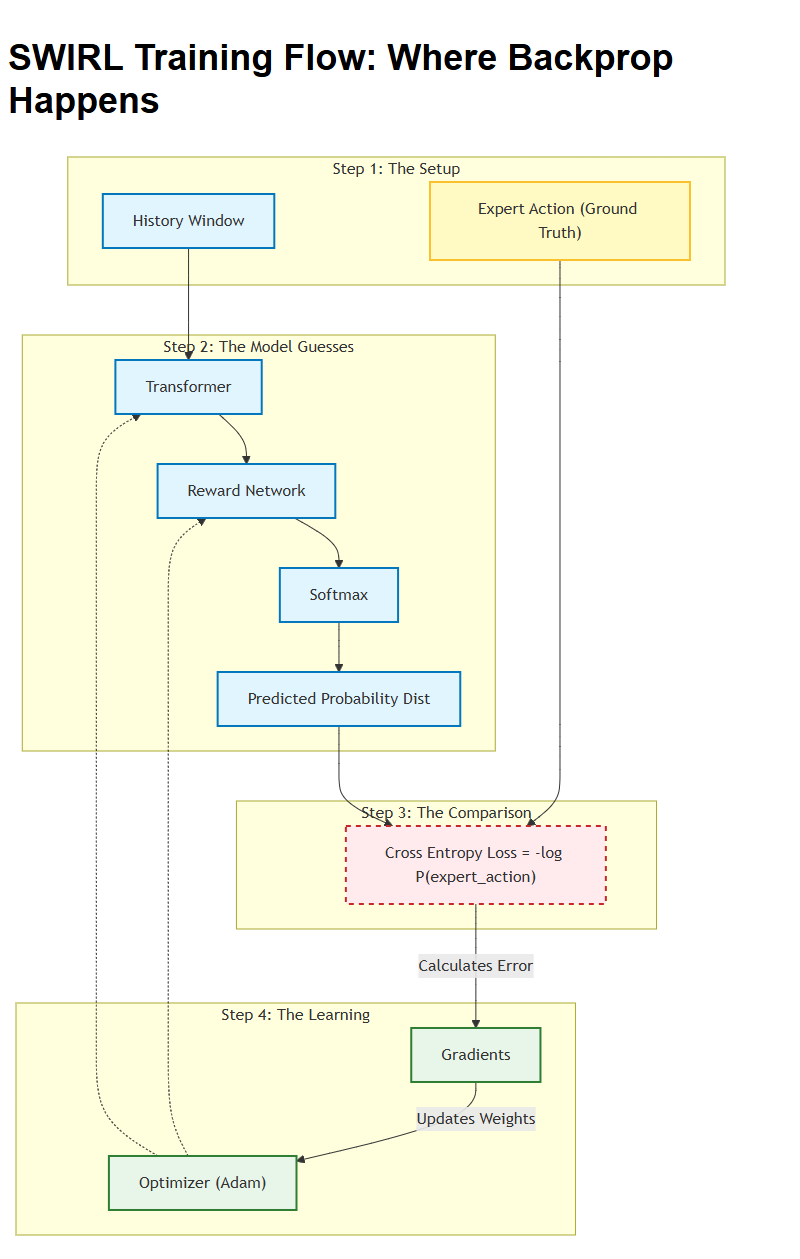
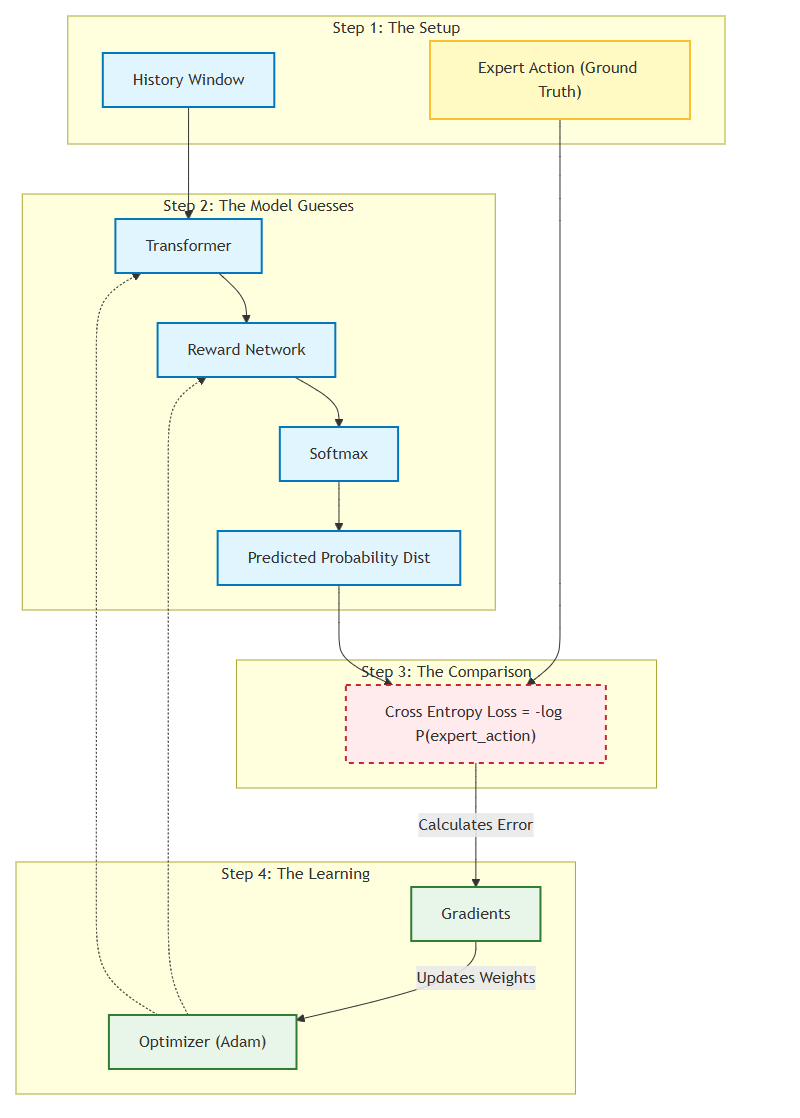
update diagrams

diff --git a/diagrams/diagram.md b/diagrams/diagram.md
@@ -1,5 +1,3 @@
-# SWIRL Training Flow: Where Backprop Happens
-
 ```mermaid
 flowchart TD
     %% Styles

diff --git a/diagrams/diagram_model.md b/diagrams/diagram_model.md
@@ -1,4 +1,4 @@
-# Detail View: The Forward Pass (K Modes)
+# Forward Pass
 
 ```mermaid
 flowchart TD
